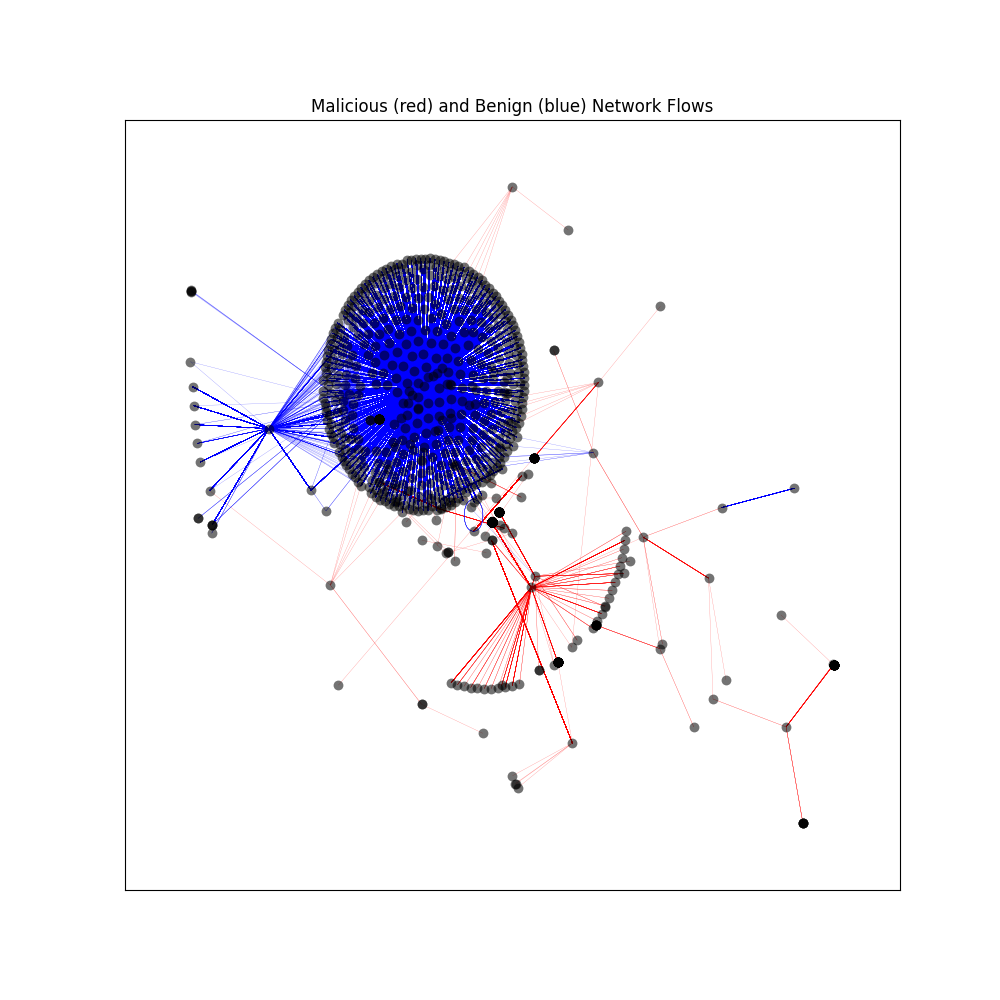
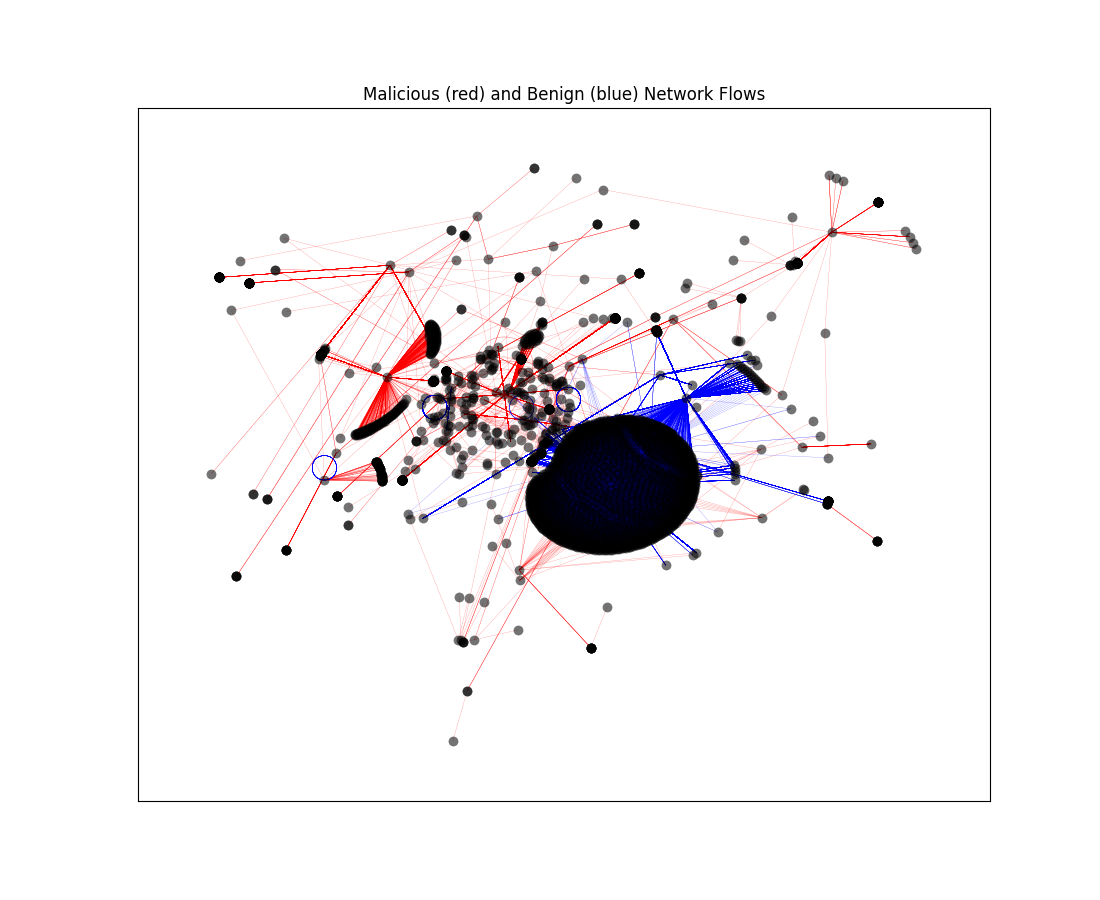
WIP

diff --git a/work/graph_exploration.py b/work/graph_exploration.py
@@ -1,0 +1,172 @@
+import numpy as np
+import networkx as nx
+import matplotlib.pyplot as plt
+
+SEED = 0
+
+
+def plot_graph(G, return_fig=False, figsize=(10,10), title=None, **kwargs):
+    """Plot 2D representation of graph using Kamada-Kawai algorithm.
+    """
+
+    pos = nx.kamada_kawai_layout(G, **kwargs)
+    edges_0 = [e[:-1] for e in G.edges(data='label') if e[-1]=='0']
+    edges_1 = [e[:-1] for e in G.edges(data='label') if e[-1]=='1']
+
+    fig, ax = plt.subplots(nrows=1, ncols=1, figsize=figsize)
+    ax.set_title('Malicious (red) and Benign (blue) Network Flows' if title is None else str(title))
+
+    nx.draw_networkx(G=G, pos=pos, ax=ax, edgelist=edges_1,
+                     width=0.2, alpha=0.5, with_labels=False,
+                     arrows=False, nodelist=[], edge_color='r')
+    nx.draw_networkx(G=G, pos=pos, ax=ax, edgelist=edges_0,
+                     width=0.2, alpha=0.5, with_labels=False,
+                     arrows=False, nodelist=[], edge_color='b')
+    nx.draw_networkx(G=G, pos=pos, ax=ax,
+                     node_size=50, alpha=0.55, with_labels=False,
+                     edgelist=[], linewidths=0., node_color='k')
+
+    if return_fig:
+        return fig
+    return None
+
+
+def plot_centrality(G, figsize=(14,4), bins=15, density=False, log=False, return_fig=False):
+    """Plot histograms of (in/out/total) node centrality.
+    """
+
+    eps = 1e-8
+    fig, (ax1, ax2, ax3) = plt.subplots(nrows=1, ncols=3, figsize=figsize)
+
+    centrality = np.array(list(nx.degree_centrality(G).values()))
+    mean = centrality.mean().round(5)
+    if log:
+        ln_centrality = np.log(centrality+eps)
+        lmean = ln_centrality.mean().round(5)
+        ax1.hist(ln_centrality, bins=bins, density=density, label=f'mean={mean} \nln(mean)={lmean}')
+        ax1.set_title('Logged Degree Centrality')
+    else:
+        ax1.hist(centrality, bins=bins, density=density, label=f'mean={mean}')
+        ax1.set_title('Degree Centrality')
+    ax1.legend()
+
+    centrality = np.array(list(nx.in_degree_centrality(G).values()))
+    mean = centrality.mean().round(5)
+    if log:
+        ln_centrality = np.log(centrality+eps)
+        lmean = ln_centrality.mean().round(5)
+        ax2.hist(ln_centrality, bins=bins, density=density, label=f'mean={mean} \nln(mean)={lmean}')
+        ax2.set_title('Logged In-Degree Centrality')
+    else:
+        ax2.hist(centrality, bins=bins, density=density, label=f'mean={mean}')
+        ax2.set_title('In-Degree Centrality')
+    ax2.legend()
+
+    centrality = np.array(list(nx.out_degree_centrality(G).values()))
+    mean = centrality.mean().round(5)
+    if log:
+        ln_centrality = np.log(centrality+eps)
+        lmean = ln_centrality.mean().round(5)
+        ax3.hist(ln_centrality, bins=bins, density=density, label=f'mean={mean} \nln(mean)={lmean}')
+        ax3.set_title('Logged In-Degree Centrality')
+    else:
+        ax3.hist(centrality, bins=bins, density=density, label=f'mean={mean}')
+        ax3.set_title('Out-Degree Centrality')
+    ax3.legend()
+
+    if return_fig:
+        return fig
+    return None
+
+
+def plot_closeness(G, figsize=(6,4), log=False, bins=15, density=False, return_fig=False):
+    """Plot histogram of closeness centrality.
+    """
+
+    eps = 1e-8
+    fig, ax = plt.subplots(nrows=1, ncols=1, figsize=figsize)
+
+    closeness = np.array(list(dict(nx.closeness_centrality(G)).values()))
+    mean = closeness.mean().round(5)
+
+    if log:
+        ln_closeness = np.log(closeness+eps)
+        lmean = ln_closeness.mean().round(5)
+        ax.hist(ln_closeness, bins=bins, density=density, label=f'mean={mean} \nln(mean)={lmean}')
+        ax.set_title('Logged Closeness Centrality')
+    else:
+        ax.hist(closeness, bins=bins, density=density, label=f'mean={mean}')
+        ax.set_title('Closeness Centrality')
+    ax.legend()
+
+    if return_fig:
+        return fig
+    return None
+
+
+def plot_betweenness(G, figsize=(11,4), bins=15, density=False, log=False, return_fig=False):
+    """Plot histograms of (node/edge) betweenness centrality.
+    """
+
+    eps = 1e-8
+    fig, (ax1, ax2) = plt.subplots(nrows=1, ncols=2, figsize=figsize)
+
+    betweenness = np.array(list(nx.betweenness_centrality(G).values()))
+    mean = betweenness.mean().round(3)
+    if log:
+        ln_betweenness = np.log(betweenness+eps)
+        lmean = ln_betweenness.mean().round(3)
+        ax1.hist(ln_betweenness, bins=bins, density=density, label=f'mean={mean} \nln(mean)={lmean}')
+        ax1.set_title('Logged Node-Betweenness Centrality')
+    else:
+        ax1.hist(betweenness, bins=bins, density=density, label=f'mean={mean}')
+        ax1.set_title('Node-Betweenness Centrality')
+    ax1.legend()
+
+    betweenness = np.array(list(nx.in_degree_centrality(G).values()))
+    mean = betweenness.mean().round(3)
+    if log:
+        ln_betweenness = np.log(betweenness+eps)
+        lmean = ln_betweenness.mean().round(3)
+        ax2.hist(ln_betweenness, bins=bins, density=density, label=f'mean={mean} \nln(mean)={lmean}')
+        ax2.set_title('Logged Edge-Betweenness Centrality')
+    else:
+        ax2.hist(betweenness, bins=bins, density=density, label=f'mean={mean}')
+        ax1.set_title('Edge-Betweenness Centrality')
+    ax2.legend()
+
+    if return_fig:
+        return fig
+    return None
+
+
+if __name__ == '__main__':
+    """Exploratory data analysis on graph data.
+    """
+
+    graph = nx.read_gml('../data/train_graph.gml.gz')
+
+    print('nodes:', nx.number_of_nodes(graph))
+    print('edges:', nx.number_of_edges(graph))
+    print('connections:', nx.number_of_edges(nx.Graph(graph)))
+    print('density:', nx.density(graph))
+
+    plot_centrality(graph, log=True, bins=20, return_fig=True)
+    plt.savefig('./artifacts/eda/graph_centrality.png')
+
+    subsample_size = 5000
+    edges = list(graph.edges)
+    idx = np.random.default_rng(SEED).choice(len(edges), size=subsample_size, replace=False)
+    nodes = np.array([v[:-1] for i,v in enumerate(edges) if i in idx]).flatten()
+    graph_sub = graph.subgraph(set(nodes))
+
+    plot_closeness(graph_sub, log=True, bins=20, return_fig=True)
+    plt.savefig('./artifacts/eda/graph_closeness.png')
+
+    plot_betweenness(graph_sub, log=True, bins=20, return_fig=True)
+    plt.savefig('./artifacts/eda/graph_betweenness.png')
+
+    gplot = plot_graph(graph_sub, return_fig=True, figsize=(11,9), scale=2.)
+    plt.savefig('./artifacts/eda/graph_layout.png')
+    # gplot = plot_graph(graph_sub, return_fig=True, figsize=(11,9), scale=1.5)
+    # plt.savefig('./artifacts/eda/graph_layout_large.png')

diff --git a/work/exploration.py b/work/exploration.py
@@ -1,13 +1,14 @@
 import numpy as np
 import pandas as pd
 import seaborn as sns
-import networkx as nx
 import matplotlib.pyplot as plt
 
 SEED = 0
 
 
 def feature_histogram(data, target, title=None, log=False, figsize=(15,5), return_fig=False):
+    """Plot histogram of full feature and grouped histogram of feature by classes.
+    """
 
     if log:
         data -= data.min()
@@ -33,31 +34,9 @@ def feature_histogram(data, target, title=None, log=False, figsize=(15,5), retur
     return None
 
 
-def plot_graph(G, return_fig=False, figsize=(10,10), title=None):
-
-    pos = nx.kamada_kawai_layout(G)
-    edges_0 = [e[:-1] for e in G.edges(data='label') if e[-1]=='0']
-    edges_1 = [e[:-1] for e in G.edges(data='label') if e[-1]=='1']
-
-    fig, ax = plt.subplots(nrows=1, ncols=1, figsize=figsize)
-    ax.set_title('Malicious (red) and Benign (blue) Network Flows' if title is None else str(title))
-
-    nx.draw_networkx(G=G, pos=pos, ax=ax, edgelist=edges_1,
-                     width=0.2, alpha=0.5, with_labels=False,
-                     arrows=False, nodelist=[], edge_color='r')
-    nx.draw_networkx(G=G, pos=pos, ax=ax, edgelist=edges_0,
-                     width=0.2, alpha=0.5, with_labels=False,
-                     arrows=False, nodelist=[], edge_color='b')
-    nx.draw_networkx(G=G, pos=pos, ax=ax,
-                     node_size=50, alpha=0.55, with_labels=False,
-                     edgelist=[], linewidths=0., node_color='k')
-
-    if return_fig:
-        return fig
-    return None
-
-
 if __name__ == '__main__':
+    """Exploratory data analysis on the panel data (edges of the graph).
+    """
 
     dtype_map = {'dest_ip': str, 'dest_port': str, 'scr_ip': str, 'src_port': str}
     df = pd.read_csv('../data/train.csv.gz', dtype=dtype_map)
@@ -108,16 +87,3 @@ if __name__ == '__main__':
     sns.catplot(data=freq, x='proto', y='Count', hue='label', kind='bar')
     plt.savefig('./artifacts/eda/proto_bar.png')
     plt.close()
-
-    graph = nx.read_gml('../data/train_graph.gml.gz')
-    print(len(graph.nodes), 'nodes', len(graph.edges), 'edges')
-
-    subsample_size = 10_000#1000
-    edges = list(graph.edges)
-    idx = np.random.default_rng(SEED).choice(len(edges), size=subsample_size, replace=False)
-    nodes = np.array([v[:-1] for i,v in enumerate(edges) if i in idx]).flatten()
-    graph_sub = graph.subgraph(set(nodes))
-
-    gplot = plot_graph(graph_sub, return_fig=True)
-    #plt.savefig('./artifacts/eda/graph_layout.png')
-    plt.savefig('./artifacts/eda/graph_layout_large.png')

diff --git a/work/utils/plot.py b/work/utils/plot.py
@@ -15,6 +15,8 @@ def plot_cm(y_true: ndarray, y_pred: ndarray, *,
             title: str = None,
             return_cm: bool = False,
             return_fig: bool = False) -> PlotOutputs:
+    """Plot confusion matrix (color gradient is fixed).
+    """
 
     fig = plt.figure(figsize=figsize)
 
@@ -49,6 +51,8 @@ def plot_roc(y_true: ndarray, y_score: ndarray, *,
              rounding: int = 3,
              return_fig: bool = False,
              return_t: bool = False) -> PlotOutputs:
+    """Plot ROC curve and show thresholds.
+    """
 
     fig, ax = plt.subplots(figsize=figsize)
     fpr, tpr, thresh = roc_curve(y_true=y_true, y_score=y_score)
@@ -83,6 +87,8 @@ def plot_hist(y_true: ndarray, y_like: ndarray, *,
               title: str = None,
               return_fig: bool = False,
               figsize: Tuple[float] = (6.4,4.8)) -> PlotOutputs:
+    """Plot histogram of predicted log-likelihoods.
+    """
 
     y_like = np.clip(
         a=y_like,

diff --git a/work/training.py b/work/training.py
@@ -14,6 +14,8 @@ RUN = 2
 
 
 def run_gridsearch(X, y, estimators, param_grids):
+    """Run grid-search over multiple estimators.
+    """
 
     est_names = list(estimators.keys())
     assert set(est_names) == set(param_grids.keys())
@@ -51,6 +53,8 @@ def run_gridsearch(X, y, estimators, param_grids):
 
 
 def process_inputs(df):
+    """Process raw data for input to pipeline.
+    """
 
     features = ['avg_ipt', 'bytes_in', 'bytes_out', 'entropy', 'num_pkts_out', 'num_pkts_in', 'proto',
                 'total_entropy', 'duration', 'duration_computed', 'dayofweek', 'timeofday']
@@ -70,6 +74,8 @@ def process_inputs(df):
 
 
 if __name__ == '__main__':
+    """Train/tune models. Store best model and grid-search results.
+    """
 
     data = pd.read_csv('../data/train.csv.gz')
     X_train, y_train = process_inputs(data)

diff --git a/work/prepare_data.py b/work/prepare_data.py
@@ -1,4 +1,5 @@
 import os
+
 import pandas as pd
 import networkx as nx
 
@@ -6,6 +7,8 @@ SEED = 0
 
 
 def extract(dir_path, sample=0.1, seed=None):
+    """Walk the directory, extract csv files, store a sample, apply some basic preprocessing.
+    """
 
     dtype_map = {'dest_ip': str, 'dest_port': str, 'scr_ip': str, 'src_port': str}
     raw_data = []
@@ -27,6 +30,8 @@ def extract(dir_path, sample=0.1, seed=None):
 
 
 def build_graph(df):
+    """Build directed graph from src and dst columns with other features as attributes.
+    """
 
     G = nx.MultiDiGraph()
     features = ['label', 'avg_ipt', 'bytes_in', 'bytes_out', 'entropy', 'num_pkts_out',

diff --git a/work/testing.py b/work/testing.py
@@ -12,6 +12,9 @@ RUN = 3
 
 
 def process_inputs(df):
+    """Process raw data for input to pipeline. Copied from `training.py` with one adjustment to
+    validate that the proper columns are present.
+    """
 
     features = ['avg_ipt', 'bytes_in', 'bytes_out', 'entropy', 'num_pkts_out', 'num_pkts_in', 'proto',
                 'total_entropy', 'duration', 'duration_computed', 'dayofweek', 'timeofday']
@@ -39,6 +42,8 @@ def process_inputs(df):
 
 
 if __name__ == '__main__':
+    """Test a model on the holdout set. Plot some metrics.
+    """
 
     data = pd.read_csv('../data/test.csv.gz')
     X_test, y_test = process_inputs(data)

diff --git a/work/utils/objects.py b/work/utils/objects.py
@@ -9,6 +9,8 @@ from sklearn.base import TransformerMixin, BaseEstimator
 
 
 class VotingClassifier2(VotingClassifier):
+    """Additional functionality for VotingClassifier to allow using pre-fit models.
+    """
 
     def __init__(self, estimators: list, *,
                  voting: str = 'soft',
@@ -37,6 +39,8 @@ class VotingClassifier2(VotingClassifier):
 
 
 class NamedStandardScaler(TransformerMixin, BaseEstimator):
+    """Additional functionality for StandardScaler to limit transformation to subset of columns.
+    """
 
     def __init__(self,
                  copy: bool = True,

diff --git a/work/ensemble.py b/work/ensemble.py
@@ -5,6 +5,8 @@ from utils.objects import VotingClassifier2
 RUN = 3
 
 if __name__ == '__main__':
+    """Create soft voting ensemble from pre-trained models.
+    """
 
     models = [
         ('mod_1_roc', joblib.load(filename='./artifacts/model_1.joblib')),

diff --git a/work/utils/__init__.py b/work/utils/__init__.py
@@ -1,0 +1,2 @@
+from .objects import VotingClassifier2, NamedStandardScaler
+from .plot import plot_cm, plot_roc, plot_hist
